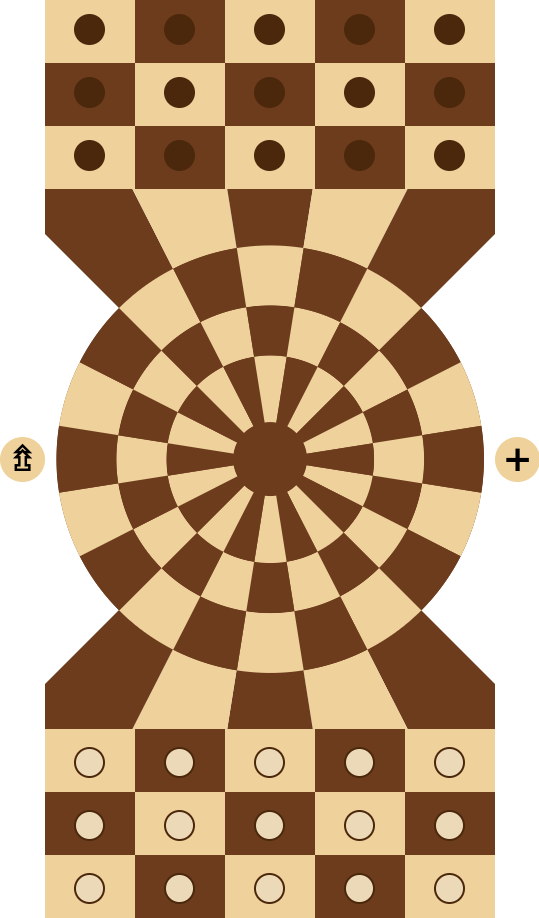
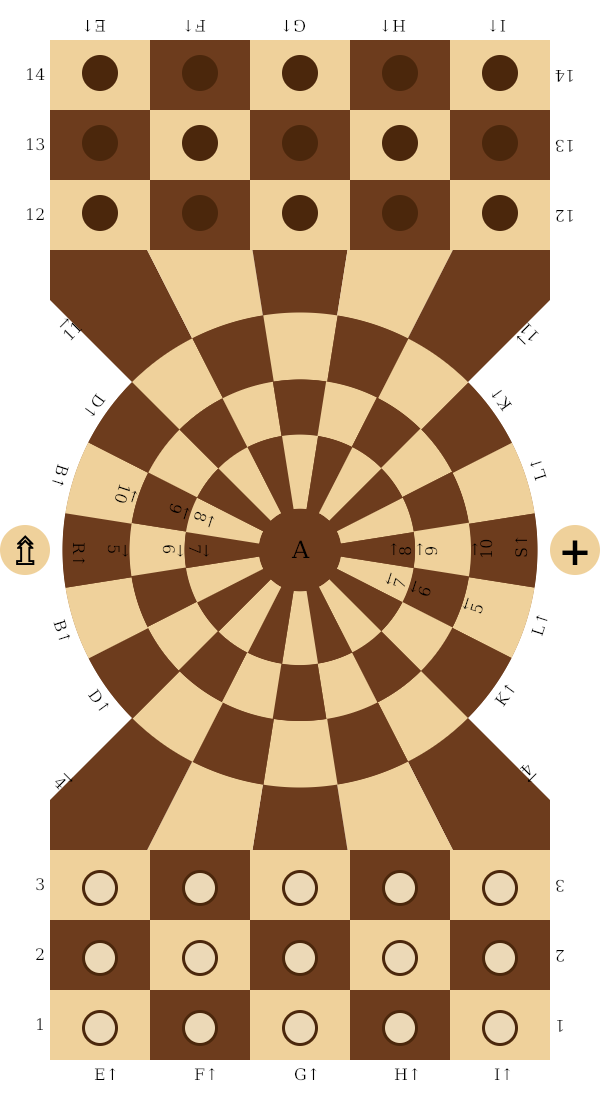
Renamed promoted pieces and two files; Changed MD structure; Visual improvements for game log

diff --git a/src/components/piece.js b/src/components/piece.js
@@ -124,8 +124,8 @@ class Piece extends Element
 
   checkPromotion = _ =>
   {
-    if (this.position == config.promotions.ranger.position) {
-      this.role = "ranger"
+    if (this.position == config.promotions.rider.position) {
+      this.role = "rider"
     }
     if (this.position == config.promotions.sentinel.position && !state.sentinels[["black", "white"][this.owner]]) {
       this.role = "sentinel"
@@ -152,7 +152,7 @@ class Piece extends Element
       data.promotion = {old: oldRole, new: this.role}
     }
     
-    state.gameInfo.logMove([oldPosition, position], "move", data)
+    state.gameInfo.logMove([oldPosition.toLowerCase(), position.toLowerCase()], "move", data)
     this.active = false
 
     state.game.changePlayer()
@@ -209,7 +209,7 @@ class Piece extends Element
     state.game.buttonPopup.appendTo(this.node.parentNode)
   }
 
-  checkHorsemanPromotion = _ =>
+  checkInfantryPromotion = _ =>
   {
     if (this.role != "pawn") {
       return false
@@ -240,18 +240,18 @@ class Piece extends Element
   {
     let lastMove = state.gameInfo.log[state.gameInfo.log.length - 1]
     let neighbours = state.game.getNeighbourCells(this.position)
-    return lastMove.data && lastMove.data.taken && neighbours.indexOf(lastMove.move[1]) !== -1
+    return lastMove.data && lastMove.data.taken && neighbours.indexOf(lastMove.move[1].toUpperCase()) !== -1
   }
 
-  promoteHorseman = _ =>
+  promoteInfantry = _ =>
   {
     state.game.buttonPopup.remove()
     let oldRole = this.role
-    this.role = "horseman"
+    this.role = "infantry"
     this.active = false
     let data = { promotion: { old: oldRole, new: this.role } }
 
-    state.gameInfo.logMove([this.position], "promote", data)
+    state.gameInfo.logMove([this.position.toLowerCase()], "promote", data)
     state.game.changePlayer()
   }
 
@@ -272,7 +272,7 @@ class Piece extends Element
     state.revived = taken
     this.active = false
     
-    state.gameInfo.logMove([this.position], "revive", {taker: lastMove.move[0], taken: lastMove.move[1]})
+    state.gameInfo.logMove([this.position.toLowerCase()], "revive", {taker: lastMove.move[0], taken: lastMove.move[1]})
     state.gameInfo.center[taken.owner ? "white" : "black"] = state.gameInfo.centerBackup[taken.owner ? "white" : "black"]
     state.gameInfo.centerBackup[taken.owner ? "white" : "black"] = 0
     state.game.changePlayer()
@@ -281,8 +281,8 @@ class Piece extends Element
   makeActive = _ =>
   {
     this.showAllowed()
-    if (this.checkHorsemanPromotion()) {
-      this.showPopupButton(this.promoteHorseman, "Promote")
+    if (this.checkInfantryPromotion()) {
+      this.showPopupButton(this.promoteInfantry, "Promote")
     }
     if (this.role == "sentinel" && this.checkLastMoveTaken()) {
       this.showPopupButton(this.revive, "Revive")

diff --git a/src/index.css b/src/index.css
@@ -29,7 +29,7 @@ gamearea {
   width: 500px;
   height: 600px;
 }
-ranger, sentinel {
+rider, sentinel {
   font-family: var(--font-face);
   height: 50px;
   width: 50px;
@@ -133,13 +133,13 @@ cell {
 row:nth-child(2n-1) cell:nth-child(2n), row:nth-child(2n) cell:nth-child(2n+1), segment.dark {
   background: var(--dark);
 }
-segment.allowed, cell.allowed, ranger.allowed, sentinel.allowed {
+segment.allowed, cell.allowed, rider.allowed, sentinel.allowed {
   background: var(--light-green);
 }
 row:nth-child(2n-1) cell:nth-child(2n).allowed, row:nth-child(2n) cell:nth-child(2n+1).allowed, segment.dark.allowed, halo.small.allowed {
   background: var(--dark-green);
 }
-segment:hover, halo.small:hover, cell:hover, row:nth-child(2n-1) cell:nth-child(2n):hover, row:nth-child(2n) cell:nth-child(2n+1):hover, ranger:hover, sentinel:hover {
+segment:hover, halo.small:hover, cell:hover, row:nth-child(2n-1) cell:nth-child(2n):hover, row:nth-child(2n) cell:nth-child(2n+1):hover, rider:hover, sentinel:hover {
   background: var(--yellow);
   cursor: pointer;
 }
@@ -195,8 +195,24 @@ turnlog {
   display: flex;
   flex-direction: column;
 }
+log-entry {
+  font-family: monospace;
+  box-sizing: border-box;
+  width: 23ch;
+  display: flex;
+  justify-content: space-between;
+}
 log-move {
-  margin-right: 10px;
+  width: 10ch;
+  font-family: monospace;
+}
+log-move:nth-child(2n) {
+  text-align: right;
+}
+log-separator {
+  width: 10%;
+  text-align: center;
+  font-family: monospace;
 }
 popup {
   display: flex;

diff --git a/build-md.js b/build-md.js
@@ -22,12 +22,12 @@ const processInstructions = async jsonFilePaths =>
         line = substitute(line.replace(/images\/([^\s)]+)/g, 'src/images/$1'), {
           "video": "https://github.com/user-attachments/assets/f6eefc4e-6e49-4a94-9399-f8dc68b88fd2",
           "pawn": capitalize(config.promotions.pawn.name),
-          "horseman_title": config.promotions.horseman.title,
-          "horseman_steps": config.promotions.horseman.steps,
-          "horseman": capitalize(config.promotions.horseman.name),
-          "ranger_title": config.promotions.ranger.title,
-          "ranger_steps": config.promotions.ranger.steps,
-          "ranger": capitalize(config.promotions.ranger.name),
+          "infantry_title": config.promotions.infantry.title,
+          "infantry_steps": config.promotions.infantry.steps,
+          "infantry": capitalize(config.promotions.infantry.name),
+          "rider_title": config.promotions.rider.title,
+          "rider_steps": config.promotions.rider.steps,
+          "rider": capitalize(config.promotions.rider.name),
           "sentinel_title": config.promotions.sentinel.title,
           "sentinel": capitalize(config.promotions.sentinel.name)
         })

diff --git a/src/components/tutorial.js b/src/components/tutorial.js
@@ -21,12 +21,12 @@ class Tutorial extends Element
           innerHTML: markdownToHtml(entry, {
             "video": "![video](images/sentinel.mp4)",
             "pawn": capitalize(config.promotions.pawn.name),
-            "horseman_title": config.promotions.horseman.title,
-            "horseman_steps": config.promotions.horseman.steps,
-            "horseman": capitalize(config.promotions.horseman.name),
-            "ranger_title": config.promotions.ranger.title,
-            "ranger_steps": config.promotions.ranger.steps,
-            "ranger": capitalize(config.promotions.ranger.name),
+            "infantry_title": config.promotions.infantry.title,
+            "infantry_steps": config.promotions.infantry.steps,
+            "infantry": capitalize(config.promotions.infantry.name),
+            "rider_title": config.promotions.rider.title,
+            "rider_steps": config.promotions.rider.steps,
+            "rider": capitalize(config.promotions.rider.name),
             "sentinel_title": config.promotions.sentinel.title,
             "sentinel": capitalize(config.promotions.sentinel.name)
           })

diff --git a/src/components/gameinfo.js b/src/components/gameinfo.js
@@ -14,6 +14,13 @@ class LogMove extends Element
   }
 }
 
+class LogSeparator extends Element
+{
+  name = "log-separator"
+
+  props = { innerText: " - " }
+}
+
 class LogEntry extends Element
 {
   name = "log-entry"
@@ -58,11 +65,12 @@ class GameInfo extends Element
   }
 
   moveInfo = (move, type, data) =>
-    move + (
-      data.taken
+    move.join(" ") 
+      + (data.taken
         ? (type == "revive" ? `*${data.taker}, ${data.taken}` : "x")
-        : (data.promotion ? `^${data.promotion.new[0]}` : "")
-    )
+        : ""
+      )
+      + (data.promotion ? `^${data.promotion.new[0].toUpperCase()}` : "")
 
   logMove = (move, type, data) =>
   {
@@ -75,6 +83,7 @@ class GameInfo extends Element
       data: data
     })
     if (this.currentLog) {
+      (new LogSeparator()).appendTo(this.currentLog),
       (new LogMove(moveInfo)).appendTo(this.currentLog)
       this.currentLog = null
     }

diff --git a/src/components/game.js b/src/components/game.js
@@ -33,7 +33,7 @@ class Game extends Element
     },
     mainarea: {
       children: {
-        ranger: new PromoCell(config.promotions.ranger.title, "ranger", config.promotions.ranger.position),
+        rider: new PromoCell(config.promotions.rider.title, "rider", config.promotions.rider.position),
         gamearea: {
           children: {
             board: {

diff --git a/README.md b/README.md
@@ -1,6 +1,10 @@
 ## Lautari
 
-Lautari is a board game for control over a central area of a board, where two players compete by maneuvering pieces and attempting to secure a winning formation. Players can promote their pieces, adding complexity and tactical depth to dominate the board. The game requires both careful planning and timely moves, with each player's choices affecting the dynamic and outcome of the match.
+Lautari is a board game that combines simplicity of a design and ease of learning with strategic depth, offering players countless combinations and tactical opportunities. In this two-player game, opponents vie for control of a central area on the board by maneuvering their pieces and aiming to establish a winning formation. The ability to promote pieces and create a large variety of combinations adds layers of complexity and challenge. Success requires a balance of careful planning and timely execution, as every decision shapes the flow and outcome of the match. The game's complexity grows with the central cell's connection to all surrounding cells, enabling swift maneuvers and rapid formation changes. The victory conditions encourage thoughtful, deliberate strategies, rewarding players who rely on calculated combinations over reckless aggression.
+
+---
+
+### Build instructions
 
 To build the project locally, run `yarn && yarn build` if you are using yarn, or `npm install && npm run build`. The project will be built into `dist` directory.
 
@@ -8,15 +12,15 @@ A working demo (playable locally, no multiplayer yet) can be found [here](https:
 
 ---
 
-## How to play
+### How to play
 
-In this game, two players face off in a strategic contest to control the center of the board. The game board consists of two starting positions and a center area where the most action occurs. The center area has one central cell surrounded by three circles, each containing 20 cells.
+In this game, two players face off in a strategic contest to control the center of the board. The game board consists of two starting positions (home area), each having three rows, five cells in each, and a center area where the most action occurs. The center area has one central cell surrounded by three circles, each containing 20 cells. The center area connected to the home areas with two additional rows.
 
-Each player starts with 15 pieces called Pawn, arranged in three rows of five pieces each. Pieces can move one step to any cell adjacent to their current cell that shares a common edge. The center cell is adjacent to all cells of the inner circle.
+Each player begins the game with 15 pieces, called Pawn, arranged in three rows of five pieces each. One player controls the white pieces, while the other controls the black pieces. A Pawn can move one step to any adjacent cell that shares a common edge with its current position. The center cell is uniquely connected to all cells within the inner circle.
 
-![Pawn](src/images/pawn.png)
+![Pawn](src/images/pawn.png) ![Center cell](src/images/center.png)
 
-If a piece moves to a cell occupied by an opponent's piece, that piece is captured and removed from the board.
+If a piece moves to a cell occupied by an opponent's piece, that piece is captured and removed from the board. Any piece can capture any other piece. There are no forced takes, meaning that the player can choose not to capture a piece even if they have that option.
 
 ---
 
@@ -24,17 +28,17 @@ If a piece moves to a cell occupied by an opponent's piece, that piece is captur
 
 Pieces can be promoted to have a different role than the Pawn. Promotions can occur by reaching specific cells or by arranging pieces in specific formations.
 
-If three pieces are placed in a line on adjacent cells (either along the same line or within the same circle) and the middle piece of these three pieces has not been promoted and is not in the home area, it can be promoted to Horseman. The promotion takes one turn. The Horseman piece is marked by a ⇧ symbol. It can move up to 2 steps at a time.
+If three pieces are placed in a straight line on adjacent cells connected by edges (either along the same row or within the same circle), the middle piece can be promoted to Infantry, provided it has not already been promoted and the middle cell is not in the home area. Note that diagonal placements do not qualify, as the cells must share edges to form a valid line. Additionally, the cells must form a continuous, straight alignment; configurations where cells are edge-connected but not in a straight line or an arc do not count. If the middle cell is the center cell of the board, the other two pieces must occupy cells that are directly opposite each other. The promotion takes one turn to complete, meaning that instead of moving any piece, player uses the turn to promote the piece. The Infantry piece is marked by a ⇧ symbol and can move up to 2 steps at a time. Movement may not be in one direction, for example, piece can make a step forward and a step left.
 
-![Promotion formation](src/images/promotion.png) ![Horseman](src/images/horseman.png)
+![Promotion formation](src/images/promotion.png) ![Infantry](src/images/infantry.png)
 
 ---
 
-### Ranger
+### Rider
 
-If a piece reaches the Ranger promotion cell (a circular cell on the left side of the center area, marked by a ⇯), it is promoted to a Ranger automatically, without requiring a turn. The Ranger piece is marked by a ⇯ symbol. This piece can move up to 3 steps and can jump over other pieces.
+If a piece reaches the Rider promotion cell (a circular cell on the left side of the center area, marked by a ⇯), it is promoted to a Rider automatically, without requiring a turn. The Rider piece is marked by a ⇯ symbol. This piece can move up to 3 steps and can jump over other pieces. Same as Infantry, Rider can make steps in different directions.
 
-![Ranger](src/images/ranger.png)
+![Rider](src/images/rider.png)
 
 ---
 
@@ -56,7 +60,7 @@ https://github.com/user-attachments/assets/f6eefc4e-6e49-4a94-9399-f8dc68b88fd2
 
 ### Main objective
 
-The main objective of the game is to gain control of the center. This is accomplished by placing a promoted piece in the center and positioning any two pieces in opposite cells within the inner circle. This configuration must remain intact for one turn to secure victory. For the black player, victory is automatic since the turn ends after their move. The white player, however, must ensure that black cannot disrupt the configuration during their turn. This rule balances the slight speed advantage white has at the start of the game.
+The main objective of the game is to gain control of the center. This is accomplished by placing a promoted piece in the center and positioning any two pieces in opposite cells within the inner circle. This configuration must remain intact for one turn to secure victory. For the black player, victory happens as soon as the configuration is made, since the turn ends after blacks move. The whites, however, must ensure that the blacks cannot disrupt the configuration during their turn - after the whites move and form the winning configuration, the blacks have a chance to take any of three pieces during the current turn. If they do not, the game is won by the whites. This rule balances the slight speed advantage whites have at the start of the game.
 
 ![Winning position](src/images/winning.png)
 
